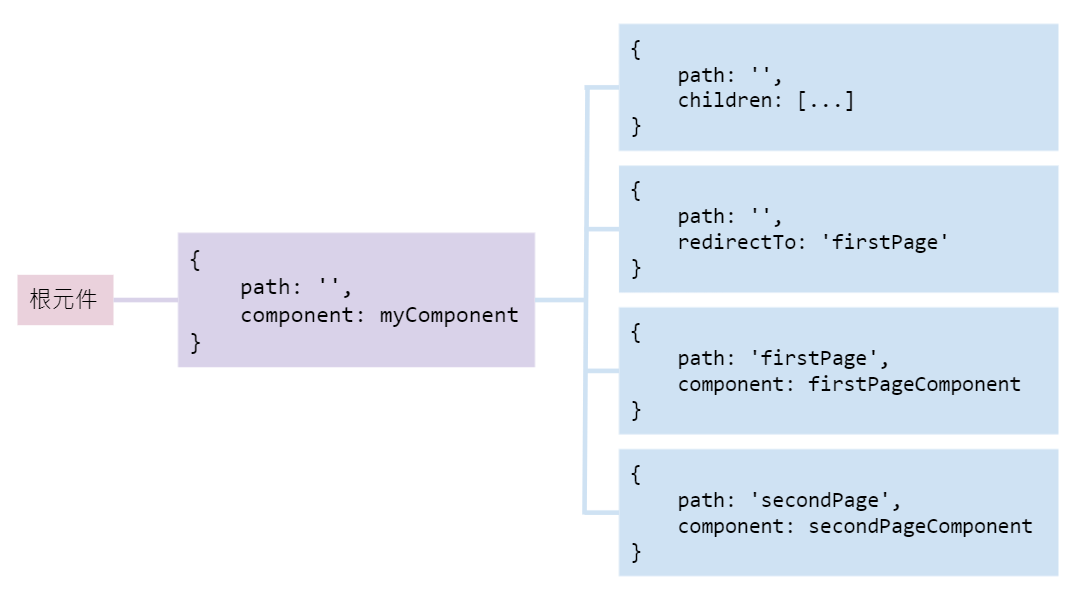
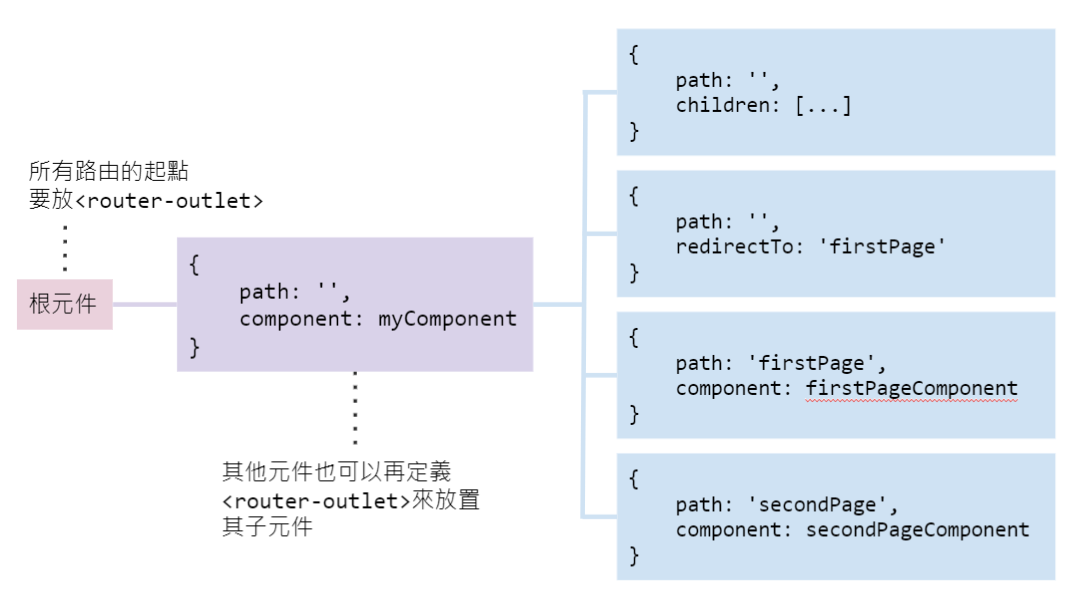
resvMainresvMain

diff --git a/26 - 設定動態路由 & 獲得路由參數.md b/26 - 設定動態路由 & 獲得路由參數.md
@@ -1,0 +1,155 @@
+# Angular - 26 - 設定動態路由 & 獲得路由參數
+現在我們回頭看一下剛剛使用到的 Router 及 RouterActive 物件。在 `app-routing.module.ts` 設定的物件型別是 Route，而在 ts 進行導頁的服務則是 Router 及 ActivateRoute。
+
+## Route ( 路由物件 )
+路由物件是每一個路由的細部設定，像是前一章在 `app-routing.module.ts` 設定的就是 Route 物件。而 Routes 物件是 Route 物件的集合 ( 陣列 )，陣列中的物件是有順序的。當瀏覽器輸入網址與路徑，路由機制就會透過 Routes 物件依序比對每一個 Route 物件，其中一個路由符合的話就不會繼續往下比對，因此萬用路由一定要放在最後面。
+
+Route 常見的屬性：
+* `path`：設定網址路徑的片段 ( 必要屬性 )
+* `component`：設定啟用這個路由時要建立的元件
+* `data`：代表預計傳入元件的路由資料
+  * 路由參數：由網址路徑傳入 ActivateRoute 物件
+  * 路由資料：由路由定義傳入 AcitivateRoute 物件，通常是靜態的資料，例如頁面標題、麵包屑等等
+
+## Router
+Router 是一個可以在任何地方注入並使用的服務，當網址發生改變，Angular 會從 Router 中找出相對應的 Route 物件。當然我們也可以從 Router 服務元件中取出 ActivateRoute ( 目前套用的路由 ) 或是 RouterState ( 路由狀態 ) 等物件的資訊。
+
+以下是 Router 服務取得完整路由資訊的一些方法：
+方法名稱 | 型別 | 用途說明
+| :---: | --- | ---
+`events` | `Observable<Event>` | 用於表示此 NgModule 中路由事件的事件流。
+`config` | `Routes` | 可以拿到在 `app-routing.module.ts` 中定義的 Route 物件集合。
+`navigated` | `boolean` | 如果為 true 則表示是否發生過至少一次導航，反之為 false。
+
+另外要透過 Router 服務導頁的話可以使用：
+方法名稱 | 型別 | 用途說明
+| :---: | --- | ---
+`navigate()` | `Promise<boolean>` | 基於所提供的 URL 進行導航，必須使用絕對路徑。
+`navigateByUrl()` | `Promise<boolean>` | 基於所提供的命令陣列和起點路由進行導航。如果沒有指定起點路由，則從根路由開始進行絕對導航。
+
+詳細可以參考 [Router 官方API](https://angular.tw/api/router/Router#events)。
+
+## RouterActive
+代表目前正在被啟用的路由物件，可以從這個物件中取得路由資訊 ( 包含路由參數 )，以下列出一些比較常用的方法。
+
+方法名稱 | 型別 | 用途說明
+| :---: | --- | ---
+`snapshot` | `ActivatedRouteSnapshot`	| 本路由此刻的快照
+`url` | `Observable<UrlSegment[]>` | ( 宣告在建構函式中 ) 一個 Observable，表示與當前路由匹配的 URL
+`params` | `Observable<Params>` | ( 宣告在建構函式中 ) 一個 Observable，表示當前路由範圍內的矩陣引數 (`;`)。
+`queryParams` | `Observable<Params>` | ( 宣告在建構函式中 ) 一個 Observable，表示所有路由共享的查詢引數 (`?`)。
+`fragment` | `Observable<string | null>` | ( 宣告在建構函式中 ) 一個 Observable，表示由所有路由共享的 URL 片段 (`#`)。
+`data` | `Observable<Data>`	| ( 宣告在建構函式中 ) 一個 Observable，表示該路由的靜態資料和解析出的資料。
+
+詳細可參考 [ActivatedRoute 官方API](https://angular.tw/api/router/ActivatedRoute#queryParams)。
+
+## 設定動態路由
+舉個例子，如果需要對某一個特定的書本 ( 產品 ) 做修改資料時，通常可以看到類似這樣的 URL：`http://localhost:4200/book/1549811558`，後面的 1549811558 這串數字是參數的一部分，代表這本書的 ISBN，可以依據不同的書籍傳入不同的 ISBN。
+
+要達到這樣的目的，一樣要在 `app-routing.module.ts` 這個檔案中進行設定。
+
+```
+|--app
+    |--app-routing.module.ts // 更改
+    |--users
+        |--users.component.html // 更改
+```
+
+1. `app-routing.module.ts`
+```ts
+const appRoutes: Routes = [
+  {path: '', component: HomeComponent},
+  {path: 'users', component: UsersComponent},
+  {path: 'users/:id/:name', component: UserComponent}, // 改動的部分
+  {path: 'servers', component: ServersComponent},
+  {path: '**', component: ServersComponent, pathMatch: 'full'}
+]
+
+@NgModule({
+  imports: [
+    RouterModule.forRoot(appRoutes), 
+    {
+      enableTrancing: true // 啟用路由追蹤
+    }
+  ],
+  exports: [RouterModule]
+})
+export class AppRoutingModule { }
+```
+URL 設定動態路由的部分，要用冒號 `:` 加上變數名稱來宣告，這樣就可以讓網址列上面帶有不同的參數。既然網址列是會變動的，那麼我們也可以取得這個動態 URL 資訊，這時候就需要用到 Observable 搭配 ActivateRoute 物件。
+<br/>
+
+2. `users.component.html`
+```html
+<div class="row">
+  <div class="col-xs-12 col-sm-4">
+    <div class="list-group">
+      <a
+      [routerLink]="['/users', user.id, user.name]"
+        class="list-group-item"
+        *ngFor="let user of users">
+        {{ user.name }}
+      </a>
+    </div>
+  </div>
+  <div class="col-xs-12 col-sm-4">
+    <app-user></app-user>
+  </div>
+</div>
+```
+接著我們讓 `routerLink` 後的參數帶上 `user.id` 以及 `user.name`，按下 `<a>` 標籤後，就可以觀察網址列是否發生變化。
+
+## 獲得路由參數
+有時候我們需要將參數藉由網址列帶到另一個畫面上，在 Angular 中只能透過路由的方式帶參數，但如果在下一個畫面的 Component 中藥拿到這些帶過來的參數要怎麼做呢?因為路由的比對是會去尋找 Routes 物件中是否有符合條件的物件，符合的話則去對元件做實例化，為了在該元件中觀察路由的變化，需要先在元件中的 constructor 注入 ActivateRoute 服務。
+
+```
+|--app
+   |--users
+      |--users.component.html
+      |--user
+         |--user.component.ts // 更改
+         |--user.component.html // 更改
+```
+
+1. `user.component.ts`
+```ts
+export class UserComponent implements OnInit, OnDestroy {
+  user: {id: number, name: string};
+  paramsSubscription: Subscription;
+
+  constructor(private route: ActivatedRoute) { }
+
+  ngOnDestroy(): void {
+    this.paramsSubscription.unsubscribe();
+  }
+
+  ngOnInit() {
+    this.user = {
+      id: this.route.snapshot.params['id'],
+      name: this.route.snapshot.params['name'],
+    };
+    this.paramsSubscription = this.route.params
+      .subscribe(
+        (params: Params) => {
+          this.user.id = params['id'];
+          this.user.name = params['name'];
+        }
+      )
+  }
+}
+```
+路由網址帶有的參數 `route.params` 其實也是一個可以被觀察的資訊，也就是一個 Observable，所以我們可以在 `ngOnInit()` 時訂閱他來取得想要的資訊，在 `ngOnDestroy()` 時也不要忘記取消訂閱。
+<br/>
+
+2. `user.component.html`
+```html
+<p>User with ID {{user.id}} loaded.</p>
+<p>User name is {{user.name}}</p>
+<a [routerLink]="['/users', 10, 'Anna']">Load Anna (10)</a>
+```
+<br/>
+
+
+## 小結
+* 在 `app-routing.module.ts` 設定的物件型別是 Route。
+* 在 TypeScript 中導頁的物件是 Router 及 ActivateRoute 服務。

diff --git a/24 - Routing.md b/24 - Routing.md
@@ -30,6 +30,13 @@ export class AppRoutingModule { }
 再來需要將定義好的路由載入到 `@NgModule()`，在 `@NgModule()` 的 `imports` 陣列中加入 `RouterModule.forRoot(appRoutes)` 即可。在 `RouterModule.forRoot(appRoutes)` 也可以添加新的參數 `enableTracing` 來啟動路由的追蹤，打開 F12 就可以查看路由追蹤的資訊。
 
 #### 定義萬用路由
+```
+|--app
+    |--app-routing.module.ts // 更改
+    |--app.component.html
+```
+
+1. `app-routing.module.ts`
 ```ts
 const appRoutes: Routes = [
   {path: '', component: HomeComponent},
@@ -51,7 +58,14 @@ export class AppRoutingModule { }
 ```
 需要注意的地方是，在設定路由時順序是有相關性的，Angular 在解析這個路由定義物件時會由上往下解析，設定時需要特別注意。最下面通常也會定義一組完用路由 ( wildcard route )，讓沒有 mapping 地的 URL 都導向指定畫面。
 
-#### 定義重導向路由
+#### 定義重導向路由 ( redirect )
+```
+|--app
+    |--app-routing.module.ts // 更改
+    |--app.component.html // 更改
+```
+
+1. `app-routing.module.ts`
 ```ts
 const appRoutes: Routes = [
   {path: '', component: HomeComponent},
@@ -72,10 +86,7 @@ const appRoutes: Routes = [
 })
 export class AppRoutingModule { }
 ```
-使用 `redirectTo` 時一定要加上 `pathMatch` 屬性。
-
-
-重導向路由最多只能轉向一次，沒有辦法連續的跳轉，例如從 `/` 轉到 `/users` 在跳轉到 `/servres`。
+使用 `redirectTo` 時一定要加上 `pathMatch` 屬性。重導向路由最多只能轉向一次，沒有辦法連續的跳轉，例如從 `/` 轉到 `/users` 在跳轉到 `/servres`。
 <br/>
 
 2. `app.component.html`
@@ -99,5 +110,53 @@ export class AppRoutingModule { }
 ```
 而在 Template 的部分會在父原件上定義路由插座 ( router-outlet )。在想要抽換 Component 的部分加上 `<router-outlet></router-outlet>`，觸發不同路由後 Router 會找出相對應的 Component 實例化，替換掉這個 tag 後呈現。
 
+## 定義子路由 ( children )
+```
+|--app
+    |--app-routing.module.ts // 更改
+    |--app.component.html
+```
+
+1. `app-routing.module.ts`
+```ts
+const appRoutes: Routes = [
+  {path: '', component: HomeComponent},
+  {path: 'test', redirectTo: '', pathMatch: 'full'},
+  {path: 'users', component: UsersComponent},
+  {path: 'servers', component: ServersComponent},
+  {path: 'settings',
+    children: [ // 放置路由設定 (無元件路由：僅包含子路由)
+      {path: 'color', component: ColorComponent},
+      {path: 'profile', component: ProfileComponent},
+    ]
+  }
+  {path: '**', component: ServersComponent, pathMatch: 'full'}
+]
+
+@NgModule({
+  imports: [
+    RouterModule.forRoot(appRoutes), 
+    {
+      enableTrancing: true // 啟用路由追蹤
+    }
+  ],
+  exports: [RouterModule]
+})
+export class AppRoutingModule { }
+```
+
+## 設定 RouterGuard
+當某些頁面的使用權限比較高時，我們不希望只擁有一般權限的使用者進到這個頁面，這種概念就稱為 RouterGuard。這裡會新增兩個 Service，`AuthService` 當作記錄使用者登錄情況的 Service，`AuthGuardService` 則是主要做成 RouterGuard 的 Service。
+
+```
+|--app
+    |--app.module.ts // 更改
+    |--auth-guard.service.ts // 更改
+    |--auth.service.ts // 更改
+```
+
+AuthService 當作記錄使用者登錄情況的 Service，把 loggedIn 狀態放入其中，AuthGuardService 則是主要做成 RouterGuard 的 Service，這個 Service 需要實作 CanActivate，回傳可以是單純的 boolean 或是非同步物件內部包裝 boolean 值，這邊設定成回傳 Promise，最後回到 AppModule 中的 appRoutes，看想把 RouterGuard 設定於哪個 Component，就在上面新增 canActivate 屬性，並在內部放入有實作 CanActivate 的 AuthGuardService。
+
 > 參考
 * [神的 github](https://github.com/we-jia/Angular-LearningNote/blob/main/12.%20Pipe.md)
+* 保哥講義

diff --git a/27 - 設定 & 隱藏導覽參數.md b/27 - 設定 & 隱藏導覽參數.md
@@ -1,0 +1,60 @@
+# Angular - 27 - 設定 & 隱藏導覽參數
+首先，路由參數的區分可以分成兩種：必要參數以及非必要參數。<br/>
+![](/images/27-1.png)
+
+#### 必要參數
+向上面那張圖，左邊的區域網址列上的參數就是必要的，因為 `localhost:4200` 與 `localhost:4200/login` 是兩個不同的頁面，如果登入畫面想要依據不同等級的會員呈現不同的樣式，那麼我們可能會在網址列上這樣去區分：`localhost:4200/login/pro` 以及 `localhost:4200/login/general`，`pro` 與 `general` 可以被稱為動態路由，在 Angular 中會用冒號 `:` 加上參數來宣告，下面會再詳細說明。
+
+#### 非必要參數
+而圖的右半邊則是在 Google 搜尋也很常看到的情況，問號後面接的都是使用者參數，有沒有出現都不影響路由的比對。非必要參數的部分又可以分為兩種：
+* 矩陣參數 ( matrix URL notation )
+   * EX：`/login;account=Anna1985;password=123456`
+   * 以 `;` 連接參數，參數與參數間亦同
+
+* 查詢字串 ( Query String )
+   * EX：`/login?account=Anna1985&password=123456`
+   * 以問號接參數，參數與參數間以 `&` 連接
+
+前一個章節提到的是使用動態路由的方式，這章則是將參數連接在網址列後面，這樣的方式不需要去 `app-routing.module.ts` 設定動態路由，而是在 TypeScript 中放入要帶過去的參數。
+
+```
+|--servers
+    |--servers.component.ts
+```
+
+1. `servers.component.ts`
+```ts
+export class ServersComponent implements OnInit {
+  private servers: {id: number, name: string, status: string}[] = [];
+
+  constructor(private serversService: ServersService,
+              private router: Router,
+              private route: ActivatedRoute) { }
+
+  ngOnInit() {
+    this.servers = this.serversService.getServers();
+  }
+
+  onReload() {
+    this.router.navigate(['servers'], {
+        queryParams: {
+            id: 0,
+            name: 'myFirstServer',
+            status: 'on'
+        }
+        relativeTo: this.route
+    });
+  }
+}
+```
+使用 `navigate()` 方法導頁時，我們在第二個物件參數中添加了一些屬性 `queryParams`。先看看這個方法的第二個參數是什麼東西：
+
+```ts
+navigate(commands: any[], extras: NavigationExtras = { skipLocationChange: false }): Promise<boolean>
+```
+
+第二個參數是一個 `NavigateionExtras` 物件，這個物件裡面有預設一些屬性，可以針對導頁的部分做設定，或是添加要帶過去的參數，依據這個物件不同的屬性，決定是以矩陣參數或是查詢字串的方式把值帶到下一畫面的 URL 上。<br/>
+
+![](/images/27-2.png)
+
+所以當按下 reload 按鈕時，應該可以看到網址列後面有 `?` 連接我們設定在 `queryParams` 內的所有參數。

diff --git a/25 - RouterLink RouterLink & 在TypeScript 中導頁.md b/25 - RouterLink RouterLink & 在TypeScript 中導頁.md
@@ -1,4 +1,4 @@
-# Angular - 25 - RouterLink
+# Angular - 25 - RouterLink & 在TypeScript 中導頁
 有時候我們會透過點選連結 ( `<a>` 標籤 ) 來切換到另一個畫面，不過 `<a>` 標籤是透過他本身的屬性 `href` 導，這種方式還是有發送請求到後端。但以 SPA 的角度來說，應該只用 JavaScript 就可以達到選染畫面的效果，所以實際上在 Angular 使用 `<a>` 標籤會透過 Angular 自己包裝過的 routerLink 功能來達到切換畫面的效果。
 
 ```
@@ -25,7 +25,7 @@
   </div>
 </div>
 ```
-由於前一章已經設定完路由的導向了，所以這裡我們只要在 `<a>` 綁定 `routerLink="/url"` 或是 `[routerLink]="['/url']"` 就可以了。使用 `routerLink="/url"` 的話就只能繫結字串，不能繫結變數；加上中括號 `[routerLink]="['/url']"` 的話就可以細節一個陣列物件。另外如果 URL 前面有家上斜線 `/` 的話，是採用絕對路徑；但沒有加斜線的話會用相對路徑，這時主控台就會報錯。
+由於前一章已經設定完路由的導向了，所以這裡我們只要在 `<a>` 綁定 `routerLink="/url"` 或是 `[routerLink]="['/url']"` 就可以了。使用 **`routerLink="/url"` ( 常量繫結 )** 的話就只能繫結字串，不能繫結變數；加上中括號 **`[routerLink]="['/url']"` ( 物件繫結 )** 的話就可以細節一個陣列物件。另外如果 URL 前面有家上斜線 `/` 的話，是採用絕對路徑；但沒有加斜線的話會用相對路徑，這時主控台就會報錯。
 
 ```
 |--servers
@@ -141,6 +141,20 @@ export class ServersComponent implements OnInit {
   }
 }
 ```
+
+## 小結
+一般透過露由導覽可以分為兩種：絕對位址導覽及相對位址導覽。
+* 絕對位址導覽
+  ```ts
+  this.router.navigateByUrl('servers/1');
+  this.router.navigate(['servers/1']);
+  ```
+
+* 相對位址導覽 ( 相對於目前路由的網址路徑 )
+  ```ts
+  this.router.navigate(['../'], { relativeTo: this.route });
+  this.router.navigate(['../1'], { relativeTo: this.route });
+  ```
 <br/>
 
 > 參考
